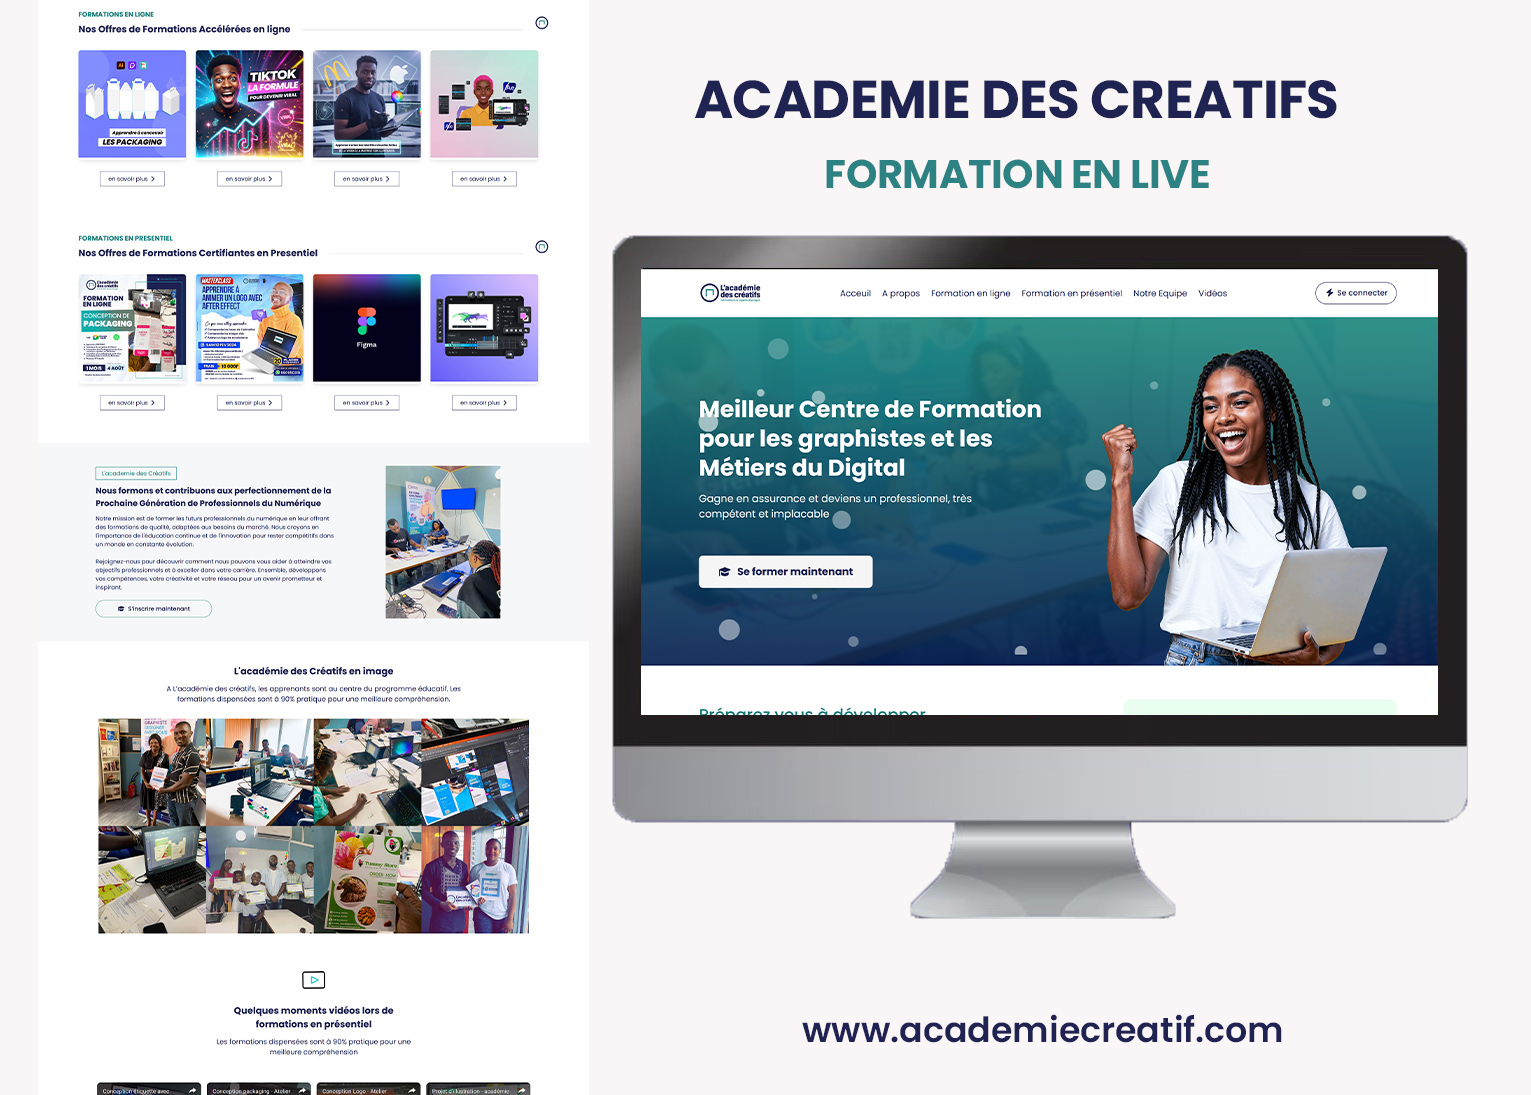
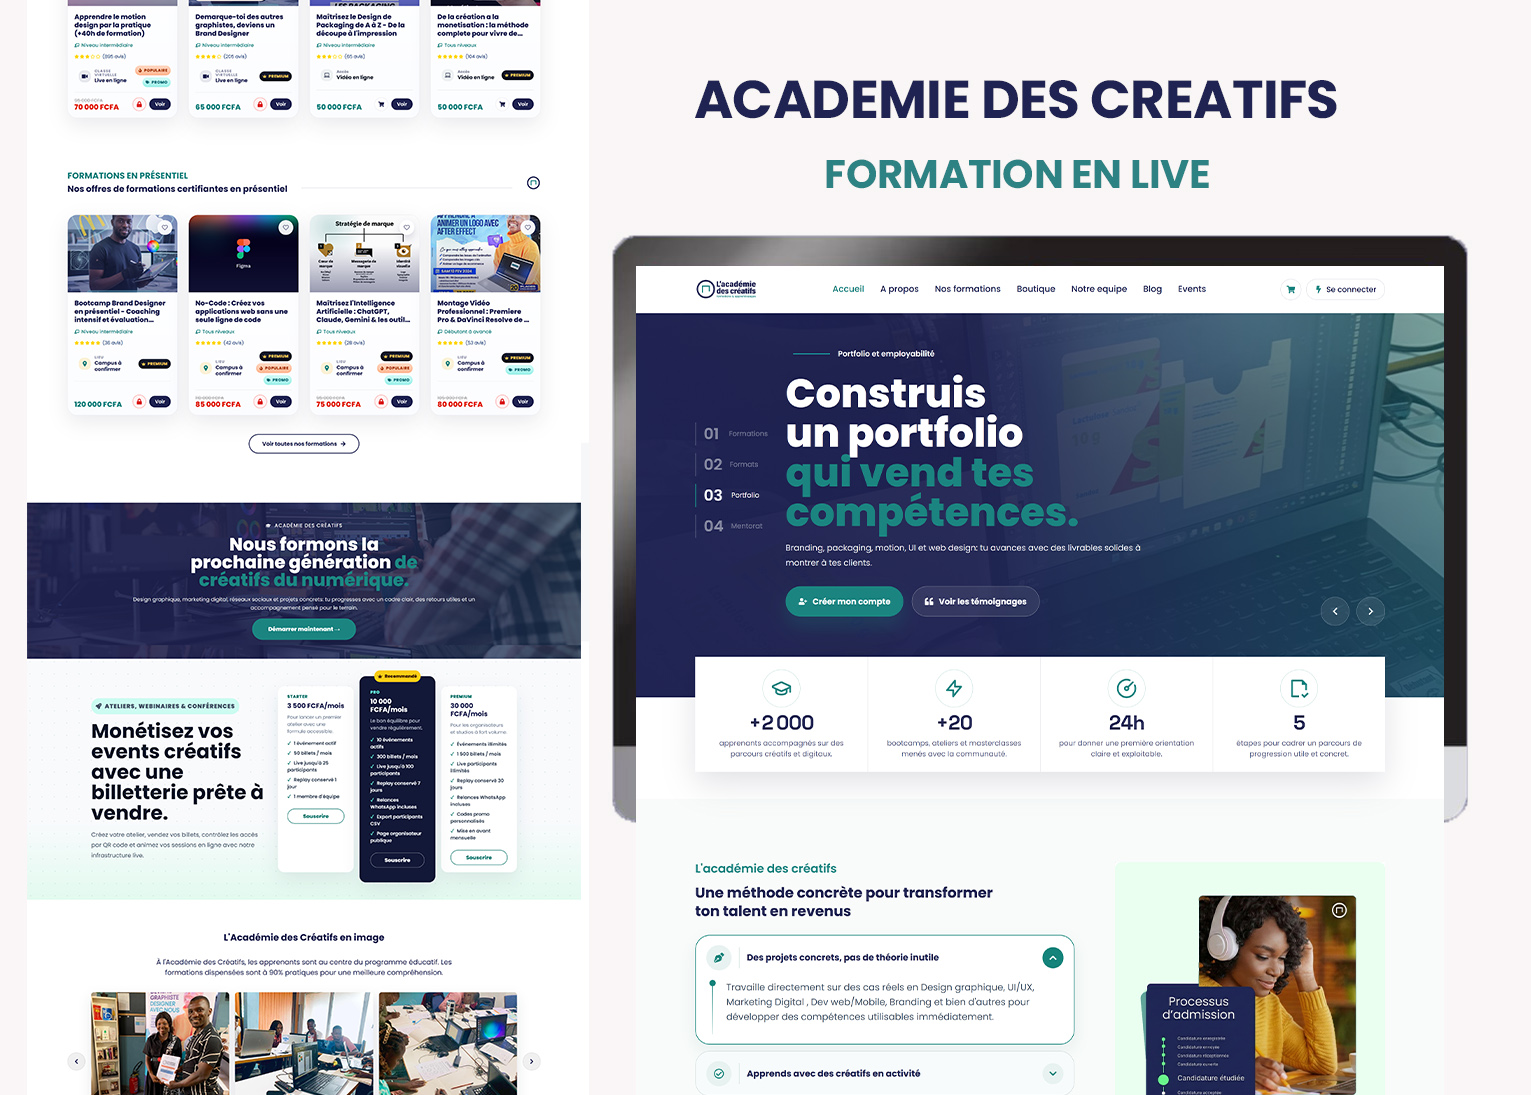
update mywork & porfolio

diff --git a/src/assets/mywork_data.js b/src/assets/mywork_data.js
@@ -33,11 +33,15 @@ import km9 from './KM/page 9.jpg'
 import km10 from './KM/2.jpg'
 
 //academiedescreatifs
-import previewac from './academiecreatifs/ac2.jpg'
-import previewac2 from './academiecreatifs/ac3.jpg'
-import previewac3 from './academiecreatifs/ac4.jpg'
-import previewac4 from './academiecreatifs/ac5.jpg'
-import previewac6 from './academiecreatifs/ac6.jpg'
+import previewac from './academiecreatifs/ac2.png'
+import previewac2 from './academiecreatifs/ac7.jpg'
+import previewac3 from './academiecreatifs/ac10.jpg'
+import previewac14 from './academiecreatifs/ac14.jpg'
+import previewac12 from './academiecreatifs/ac12.jpg'
+import previewac11 from './academiecreatifs/ac11.jpg'
+import previewac8 from './academiecreatifs/ac8.jpg'
+import previewac13 from './academiecreatifs/ac13.jpg'
+import previewac9 from './academiecreatifs/ac9.jpg'
 import preview from './academiecreatifs/ac1.jpg'
 
 //student planner
@@ -57,6 +61,7 @@ import studentplanner8 from './studentPlanner/studentPlanner7.png'
 import etrack from './e-track.jpg'
 import takecare from './takecare.jpg'
 import porfolio from './porfolio.jpg'
+import pad_img from './porfolio_img_pad.png'
 
 //proclean
 import proclean_img from './ProClean/proclean.jpg'
@@ -79,6 +84,34 @@ const mywork_data = [
     w_projectLink: "https://studentplannerr.netlify.app/dashboard",
     w_mockupLink: "", // Laissez vide si pas de maquette
     w_images: [studentplanner8,studentplanner2, studentplanner3, studentplanner4, studentplanner5, studentplanner6, studentplanner7]
+  },
+
+  {
+    w_img: pad_img,
+    w_name: "PAD-gestion routière",
+    w_categories: ["Logiciel prise de décision", "App Offline"],
+    w_status: "online",
+    w_year: "2026",
+    w_type: "Projet Port Autonome de Douala (PAD)",
+    w_technologies: ["React JS", "Postgre SQL", "TypeScript", "Intégration IA"],
+    w_description: "J'ai eu à developper un module de prise de décison pour la gestion routière qui sera utilisé par le PAD, l'objectif est d'évaluer les dégradations en fonctions des voies, des sessions et des SAP, et centraliser ses données afin d'etre exploitater par la prise de décision automation qui proposera un traitement adapté à la dégradation et soumettre un rapport pouvant être imprimé et utilisé par les techniciens.",
+    w_projectLink: "https://github.com/harfleur20/Pad-outil-de-gestion-routiere",
+    w_mockupLink: "", // Laissez vide si pas de maquette
+    w_images: []
+  },
+
+  {
+    w_img: preview,
+    w_name: "Académie des Créatifs",
+    w_categories: ["SiteWeb", "formation en live", "Billeterie"],
+    w_status: "online",
+    w_year: "2025",
+    w_type: "Projet personnel",
+    w_technologies: ["React JS", "UI/UX Design", "FastAPI", "css", "PostgreSQL", "API REST", "Infra/CI/CD", "Monitoring", "Intégration IA", "SQL ALEMBIC", "Pydantic", "WebSocket", "Uvicorn"],
+    w_description: "Conception d'un siteweb de formation moderne et responsive pour vendre les formations live et accompagner les étudiants depuis leur Dashboard, les acteurs primaires : Etudiants / Professeurs / Admin",
+    w_projectLink: "https://academiecreatif.com/",
+    w_mockupLink: "", // Laissez vide si pas de maquette
+    w_images: [previewac, previewac2, previewac3, previewac8, previewac9, previewac11, previewac12, previewac13, previewac14 ]
   },
 
   {
@@ -149,22 +182,6 @@ const mywork_data = [
     w_mockupLink: "", // Laissez vide si pas de maquette
     w_images: []
   },
-
-   {
-    w_img: preview,
-    w_name: "Académie des Créatifs",
-    w_categories: ["SiteWeb", "formation en live"],
-    w_status: "online",
-    w_year: "2024",
-    w_type: "Projet personnel",
-    w_technologies: ["Vanilla", "UI/UX Design", "Javascript", "css3", "Supabase", "Deno", "Codex", "Netlify"],
-    w_description: "Conception d'un siteweb de formation moderne et responsive pour vendre les formations live et accompagner les étudiants depuis leur Dashboard, les acteurs primaires : Etudiants / Professeurs / Admin",
-    w_projectLink: "https://academiecreatif.com/",
-    w_mockupLink: "", // Laissez vide si pas de maquette
-    w_images: [previewac, previewac2, previewac3,previewac4,previewac6]
-  },
-
-  
   
   {
     w_img: etrack,

diff --git a/src/components/About/About.jsx b/src/components/About/About.jsx
@@ -96,24 +96,24 @@ function About() {
                 
               <div className="about-skills" ref={skillsRef}>
                 <div className="about-skill">
-                    <p>Next JS</p> 
-                    <hr style={{ '--skill-width': '35%' }} />
+                    <p>UI/UX Design</p> 
+                    <hr style={{ '--skill-width': '38%' }} />
                 </div>
                 <div className="about-skill">
-                    <p>React JS</p> 
+                    <p>Frontend</p> 
                     <hr style={{ '--skill-width': '50%' }} />
                 </div>
                 <div className="about-skill">
-                    <p>Javascript</p> 
-                    <hr style={{ '--skill-width': '40%' }} />
+                    <p>Backend</p> 
+                    <hr style={{ '--skill-width': '60%' }} />
                 </div>
                 <div className="about-skill">
-                    <p>Node JS</p> 
-                    <hr style={{ '--skill-width': '30%' }} />
+                    <p>DevOps</p> 
+                    <hr style={{ '--skill-width': '45%' }} />
                 </div>
                 <div className="about-skill">
-                    <p>Infra | CI/CD</p> 
-                    <hr style={{ '--skill-width': '20%' }} />
+                    <p>Architecture</p> 
+                    <hr style={{ '--skill-width': '35%' }} />
                 </div>
               </div>
 
